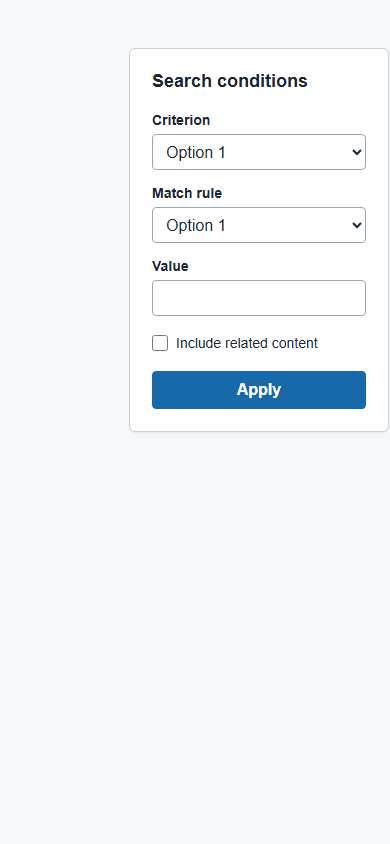
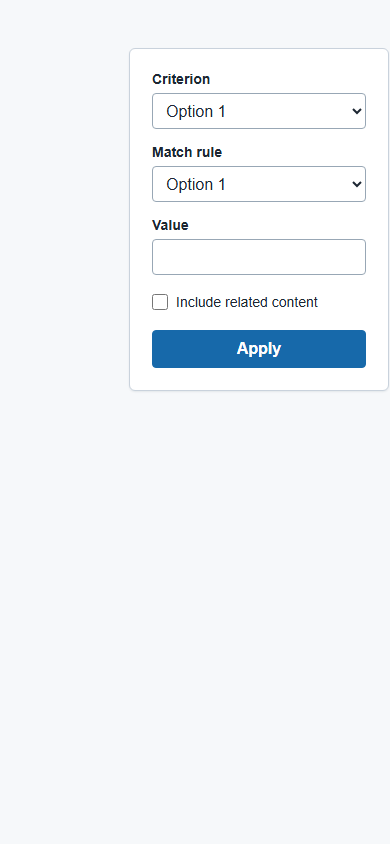
fix: align search conditions evidence checks

diff --git a/docs/poc/experiments/007-search-components/search-conditions/attempt-1/implementation/initial.css b/docs/poc/experiments/007-search-components/search-conditions/attempt-1/implementation/initial.css
@@ -21,12 +21,6 @@ body { margin: 0; }
   box-shadow: 0 1px 2px rgba(16, 35, 52, .08);
 }
 
-h1 {
-  margin: 0 0 20px;
-  font-size: 18px;
-  font-weight: 600;
-}
-
 .field { margin-bottom: 15px; }
 
 label, .choice {

diff --git a/docs/poc/experiments/007-search-components/search-conditions/attempt-1/implementation/initial.html b/docs/poc/experiments/007-search-components/search-conditions/attempt-1/implementation/initial.html
@@ -8,8 +8,7 @@
   </head>
   <body>
     <main class="canvas">
-      <section class="condition-group" aria-labelledby="conditions-title">
-        <h1 id="conditions-title">Search conditions</h1>
+      <section class="condition-group">
         <form>
           <div class="field">
             <label for="condition-kind">Criterion</label>

diff --git a/docs/poc/experiments/007-search-components/search-conditions/attempt-1/implementation/implementation-report.md b/docs/poc/experiments/007-search-components/search-conditions/attempt-1/implementation/implementation-report.md
@@ -16,6 +16,7 @@ unresolved_gaps: "Application-owned options, behavior, validation, and narrow po
 guidance_trace: "One bordered condition group, labeled controls in order, primary Apply action after conditions."
 fixture_trace: "Contract static fixture allowance only."
 unsupported_invention: "None."
+correction: "Removed the unsupplied visible heading; static-check allowlist now permits only the five required implementation evidence files."
 ---
 
-The local static render contains only the declared condition controls and primary action. The wide and narrow captures show the same single-column component; no separate narrow mode was added.
+The local static render contains only the declared condition controls and primary action. The wide and narrow captures show the same single-column component; no separate narrow mode was added. The correction removed the visible group heading because it was not supplied by the Contract.